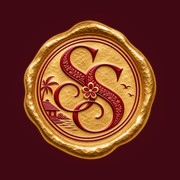
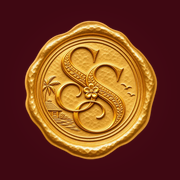
Switch to the all-gold wax seal
- Welcome screen and gold light sweep use the all-gold seal
- Tab and home-screen icons remade from it
- Remove the gold and ruby seal image

diff --git a/site/index.html b/site/index.html
@@ -111,7 +111,7 @@
   .door.l{box-shadow:inset -10px 0 22px rgba(0,0,0,.35)}
   .door.r{box-shadow:inset 10px 0 22px rgba(0,0,0,.35)}
   .seal{position:absolute;left:50%;top:50%;transform:translate(-50%,-50%);text-align:center;transition:opacity .5s}
-  /* gold wax seal with the ruby SS monogram (assets/seal-logo.webp); the shadow follows the wax edge */
+  /* all-gold wax seal with the SS monogram (assets/seal-gold.webp); the shadow follows the wax edge */
   .seal .ring{position:relative;display:block;width:184px;height:184px;margin:0 auto}
   .seal .ring img{display:block;width:100%;height:100%;
      filter:drop-shadow(0 2px 2px rgba(0,0,0,.5)) drop-shadow(3px 10px 16px rgba(0,0,0,.45))}
@@ -123,7 +123,7 @@
   .seal .shine{position:absolute;inset:0;pointer-events:none;mix-blend-mode:screen;
      background:linear-gradient(112deg,transparent 38%,rgba(255,236,190,.0) 42%,rgba(255,240,205,.42) 50%,rgba(255,236,190,0) 58%,transparent 62%);
      background-size:260% 100%;background-position:130% 0;
-     -webkit-mask:url(assets/seal-logo.webp) center/contain no-repeat;mask:url(assets/seal-logo.webp) center/contain no-repeat;
+     -webkit-mask:url(assets/seal-gold.webp) center/contain no-repeat;mask:url(assets/seal-gold.webp) center/contain no-repeat;
      animation:shine 9s ease-in-out 1.45s infinite}
   .seal p{animation:textIn 1s ease .45s both}
   .seal .tap{animation:textIn 1s ease .65s both,breathe 3.2s ease-in-out 2s infinite}
@@ -217,7 +217,7 @@
 <div class="gate" id="gate" role="button" tabindex="0" aria-label="Open the invitation">
   <div class="door l"></div><div class="door r"></div>
   <div class="seal">
-    <span class="ring"><img src="assets/seal-logo.webp" width="184" height="184" alt="SS monogram wax seal"><span class="shine" aria-hidden="true"></span></span>
+    <span class="ring"><img src="assets/seal-gold.webp" width="184" height="184" alt="SS monogram wax seal"><span class="shine" aria-hidden="true"></span></span>
     <p>You're invited</p>
     <div class="tap">TAP TO OPEN</div>
   </div>
